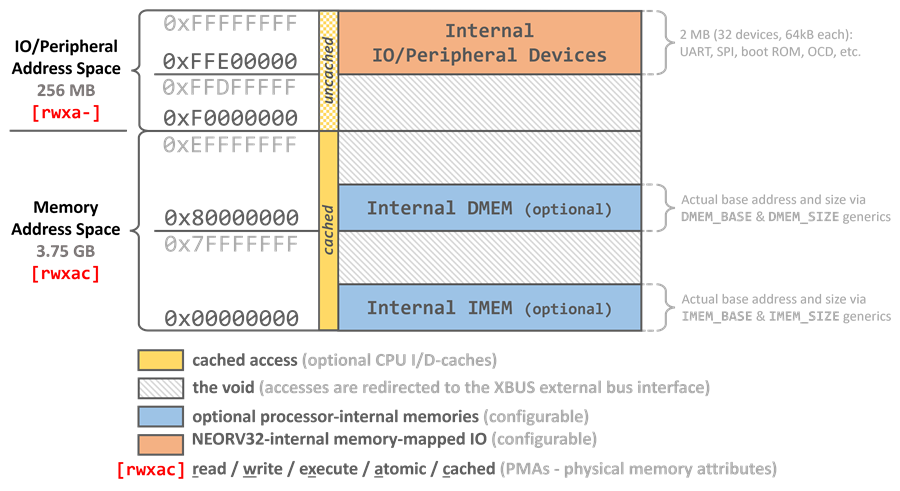
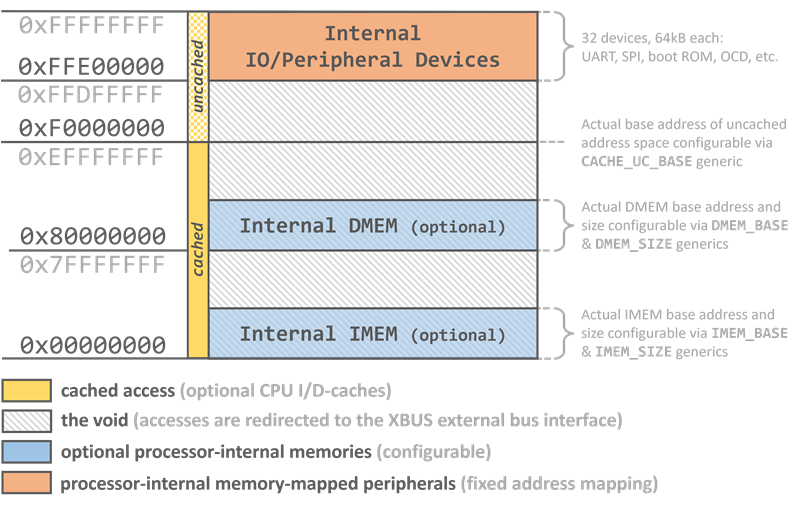
Add option to configure uncached address space (#1561)

Pull request: Add option to configure uncached address space
Implementing #1557.

:warning: Rework `SYSINFO->CACHE` register layout.

diff --git a/sw/lib/source/neorv32_aux.c b/sw/lib/source/neorv32_aux.c
@@ -170,7 +170,7 @@ void neorv32_aux_unixtime2date(uint64_t unixtime, date_t* date) {
 
 
 /**********************************************************************//**
- * Helper function to convert up to 16 hex chars string into uint64_t
+ * Helper function to convert a string of up to 16 hex chars into uint64_t.
  *
  * @param[in,out] buffer Pointer to array of chars to convert into number.
  * @param[in] length Length of the conversion string.
@@ -459,47 +459,45 @@ void neorv32_aux_print_hw_config(void) {
     neorv32_uart0_printf("none\n");
   }
 
-  // CPU i-cache
+
+  // CPU caches
+  uint32_t c_block_size = (NEORV32_SYSINFO->CACHE >> SYSINFO_CACHE_BLOCK_SIZE_0) & 0x0F;
+  c_block_size = 1 << c_block_size;
+
+  uint32_t ic_num_blocks = (NEORV32_SYSINFO->CACHE >> SYSINFO_CACHE_I_NUM_BLOCKS_0) & 0x0F;
+  ic_num_blocks = 1 << ic_num_blocks;
+
+  uint32_t dc_num_blocks = (NEORV32_SYSINFO->CACHE >> SYSINFO_CACHE_D_NUM_BLOCKS_0) & 0x0F;
+  dc_num_blocks = 1 << dc_num_blocks;
+
+  uint32_t uncached_beg = ((NEORV32_SYSINFO->CACHE >> SYSINFO_CACHE_UC_BEGIN_0) & 0x0F) << 28;
+  uint32_t uncached_end = 0xFFFFFFFF;
+
   neorv32_uart0_printf("CPU I-cache:         ");
   if (NEORV32_SYSINFO->SOC & (1 << SYSINFO_SOC_ICACHE)) {
-
-    uint32_t ic_block_size = (NEORV32_SYSINFO->CACHE >> SYSINFO_CACHE_INST_BLOCK_SIZE_0) & 0x0F;
-    ic_block_size = 1 << ic_block_size;
-
-    uint32_t ic_num_blocks = (NEORV32_SYSINFO->CACHE >> SYSINFO_CACHE_INST_NUM_BLOCKS_0) & 0x0F;
-    ic_num_blocks = 1 << ic_num_blocks;
-
-    neorv32_uart0_printf("%u bytes (%ux%u)", ic_num_blocks*ic_block_size, ic_num_blocks, ic_block_size);
-
-    if (NEORV32_SYSINFO->CACHE & (1 << SYSINFO_CACHE_INST_BURSTS_EN)) {
-      neorv32_uart0_printf(", bursts enabled\n");
+    neorv32_uart0_printf("%u bytes (%ux%u)", ic_num_blocks*c_block_size, ic_num_blocks, c_block_size);
+    if (NEORV32_SYSINFO->CACHE & (1 << SYSINFO_CACHE_BURSTS_EN)) {
+      neorv32_uart0_printf(", bursts enabled");
     }
     else {
-      neorv32_uart0_printf(", no bursts\n");
+      neorv32_uart0_printf(", no bursts");
     }
+    neorv32_uart0_printf(", uncached: 0x%x..0x%x\n", uncached_beg, uncached_end);
   }
   else {
     neorv32_uart0_printf("none");
   }
 
-  // CPU d-cache
   neorv32_uart0_printf("CPU D-cache:         ");
   if (NEORV32_SYSINFO->SOC & (1 << SYSINFO_SOC_DCACHE)) {
-
-    uint32_t dc_block_size = (NEORV32_SYSINFO->CACHE >> SYSINFO_CACHE_DATA_BLOCK_SIZE_0) & 0x0F;
-    dc_block_size = 1 << dc_block_size;
-
-    uint32_t dc_num_blocks = (NEORV32_SYSINFO->CACHE >> SYSINFO_CACHE_DATA_NUM_BLOCKS_0) & 0x0F;
-    dc_num_blocks = 1 << dc_num_blocks;
-
-    neorv32_uart0_printf("%u bytes (%ux%u)", dc_num_blocks*dc_block_size, dc_num_blocks, dc_block_size);
-
-    if (NEORV32_SYSINFO->CACHE & (1 << SYSINFO_CACHE_DATA_BURSTS_EN)) {
-      neorv32_uart0_printf(", bursts enabled\n");
+    neorv32_uart0_printf("%u bytes (%ux%u)", dc_num_blocks*c_block_size, dc_num_blocks, c_block_size);
+    if (NEORV32_SYSINFO->CACHE & (1 << SYSINFO_CACHE_BURSTS_EN)) {
+      neorv32_uart0_printf(", bursts enabled");
     }
     else {
-      neorv32_uart0_printf(", no bursts\n");
+      neorv32_uart0_printf(", no bursts");
     }
+    neorv32_uart0_printf(", uncached: 0x%x..0x%x\n", uncached_beg, uncached_end);
   }
   else {
     neorv32_uart0_printf("none");
@@ -514,7 +512,7 @@ void neorv32_aux_print_hw_config(void) {
   else {
     neorv32_uart0_printf("none");
   }
-  if (NEORV32_SYSINFO->CACHE & ((1 << SYSINFO_CACHE_INST_BURSTS_EN) | (1 << SYSINFO_CACHE_DATA_BURSTS_EN))) {
+  if (NEORV32_SYSINFO->CACHE & (1 << SYSINFO_CACHE_BURSTS_EN)) {
     neorv32_uart0_printf(", bursts enabled\n");
   }
   else {

diff --git a/sw/lib/include/neorv32_sysinfo.h b/sw/lib/include/neorv32_sysinfo.h
@@ -23,10 +23,10 @@
 /**@{*/
 /** SYSINFO module prototype */
 typedef volatile struct __attribute__((packed,aligned(4))) {
-        uint32_t CLK;   /**< offset 0:  Clock speed in Hz */
-  const uint32_t MISC;  /**< offset 4:  Miscellaneous system configurations (#NEORV32_SYSINFO_MISC_enum) */
-  const uint32_t SOC;   /**< offset 8:  SoC features (#NEORV32_SYSINFO_SOC_enum) */
-  const uint32_t CACHE; /**< offset 12: Cache configuration (#NEORV32_SYSINFO_CACHE_enum) */
+        uint32_t CLK;   /**< Clock speed in Hz */
+  const uint32_t MISC;  /**< Miscellaneous system configurations (#NEORV32_SYSINFO_MISC_enum) */
+  const uint32_t SOC;   /**< SoC features (#NEORV32_SYSINFO_SOC_enum) */
+  const uint32_t CACHE; /**< Cache configuration (#NEORV32_SYSINFO_CACHE_enum) */
 } neorv32_sysinfo_t;
 
 /** SYSINFO module hardware handle (#neorv32_sysinfo_t) */
@@ -91,18 +91,20 @@ enum NEORV32_SYSINFO_SOC_enum {
 
 /** NEORV32_SYSINFO.CACHE (r/-): Cache configuration */
  enum NEORV32_SYSINFO_CACHE_enum {
-  SYSINFO_CACHE_INST_BLOCK_SIZE_0 =  0, /**< SYSINFO_CACHE  (0) (r/-): i-cache: log2(Block size in bytes), bit 0 (via CACHE_BLOCK_SIZE generic) */
-  SYSINFO_CACHE_INST_BLOCK_SIZE_3 =  3, /**< SYSINFO_CACHE  (3) (r/-): i-cache: log2(Block size in bytes), bit 3 (via CACHE_BLOCK_SIZE generic) */
-  SYSINFO_CACHE_INST_NUM_BLOCKS_0 =  4, /**< SYSINFO_CACHE  (4) (r/-): i-cache: log2(Number of cache blocks), bit 0 (via ICACHE_NUM_BLOCKS generic) */
-  SYSINFO_CACHE_INST_NUM_BLOCKS_3 =  7, /**< SYSINFO_CACHE  (7) (r/-): i-cache: log2(Number of cache blocks), bit 3 (via ICACHE_NUM_BLOCKS generic) */
+  SYSINFO_CACHE_BLOCK_SIZE_0   =  0, /**< SYSINFO_CACHE  (0) (r/-): log2(Block size in bytes), bit 0 (via CACHE_BLOCK_SIZE generic) */
+  SYSINFO_CACHE_BLOCK_SIZE_3   =  3, /**< SYSINFO_CACHE  (3) (r/-): log2(Block size in bytes), bit 3 (via CACHE_BLOCK_SIZE generic) */
 
-  SYSINFO_CACHE_DATA_BLOCK_SIZE_0 =  8, /**< SYSINFO_CACHE  (8) (r/-): d-cache: log2(Block size in bytes), bit 0 (via CACHE_BLOCK_SIZE generic) */
-  SYSINFO_CACHE_DATA_BLOCK_SIZE_3 = 11, /**< SYSINFO_CACHE (11) (r/-): d-cache: log2(Block size in bytes), bit 3 (via CACHE_BLOCK_SIZE generic) */
-  SYSINFO_CACHE_DATA_NUM_BLOCKS_0 = 12, /**< SYSINFO_CACHE (12) (r/-): d-cache: log2(Number of cache blocks), bit 0 (via DCACHE_NUM_BLOCKS generic) */
-  SYSINFO_CACHE_DATA_NUM_BLOCKS_3 = 15, /**< SYSINFO_CACHE (15) (r/-): d-cache: log2(Number of cache blocks), bit 3 (via DCACHE_NUM_BLOCKS generic) */
+  SYSINFO_CACHE_I_NUM_BLOCKS_0 =  4, /**< SYSINFO_CACHE  (4) (r/-): i-cache: log2(Number of cache blocks), bit 0 (via ICACHE_NUM_BLOCKS generic) */
+  SYSINFO_CACHE_I_NUM_BLOCKS_3 =  7, /**< SYSINFO_CACHE  (7) (r/-): i-cache: log2(Number of cache blocks), bit 3 (via ICACHE_NUM_BLOCKS generic) */
 
-  SYSINFO_CACHE_INST_BURSTS_EN    = 16, /**< SYSINFO_CACHE (16) (r/-): i-cache: issue burst transfers or cache update (via CACHE_BURSTS_EN generic) */
-  SYSINFO_CACHE_DATA_BURSTS_EN    = 24  /**< SYSINFO_CACHE (14) (r/-): d-cache: issue burst transfers or cache update (via CACHE_BURSTS_EN generic) */
+  SYSINFO_CACHE_D_NUM_BLOCKS_0 =  8, /**< SYSINFO_CACHE  (8) (r/-): d-cache: log2(Number of cache blocks), bit 0 (via DCACHE_NUM_BLOCKS generic) */
+  SYSINFO_CACHE_D_NUM_BLOCKS_3 = 11, /**< SYSINFO_CACHE (11) (r/-): d-cache: log2(Number of cache blocks), bit 3 (via DCACHE_NUM_BLOCKS generic) */
+
+  SYSINFO_CACHE_UC_BEGIN_0     = 12, /**< SYSINFO_CACHE (12) (r/-): start of non-cached address space, 256MB page (via CACHE_BYPASS_BEGIN generic) */
+  SYSINFO_CACHE_UC_BEGIN_3     = 15, /**< SYSINFO_CACHE (15) (r/-): start of non-cached address space, 256MB page (via CACHE_BYPASS_BEGIN generic) */
+
+  SYSINFO_CACHE_BURSTS_EN      = 16  /**< SYSINFO_CACHE (16) (r/-): issue burst transfers for cache updates (via CACHE_BURSTS_EN generic) */
+
 };
 /**@}*/
 

diff --git a/CHANGELOG.md b/CHANGELOG.md
@@ -29,6 +29,7 @@ mimpid = 0x01040312 -> Version 01.04.03.12 -> v1.4.3.12
 
 | Date | Version | Comment | Ticket |
 |:----:|:-------:|:--------|:------:|
+| 27.05.2026 | 1.13.1.3 | add option to configure start of uncached address space | [#1561](https://github.com/stnolting/neorv32/pull/1561) |
 | 25.05.2026 | 1.13.1.2 | :bug: fix stream link's `rx_ready_o` signal (zero when module is disabled) | [#1558](https://github.com/stnolting/neorv32/pull/1558) |
 | 16.05.2026 | 1.13.1.1 | :bug: fix/rework reservation station of `Zalrsc` ISA extension; `sc` can also cause a bus access fault even if the reservation failes | [#1556](https://github.com/stnolting/neorv32/pull/1556) |
 | 14.05.2026 | [**1.13.1**](https://github.com/stnolting/neorv32/releases/tag/v1.13.1) | :rocket: **New release** | |